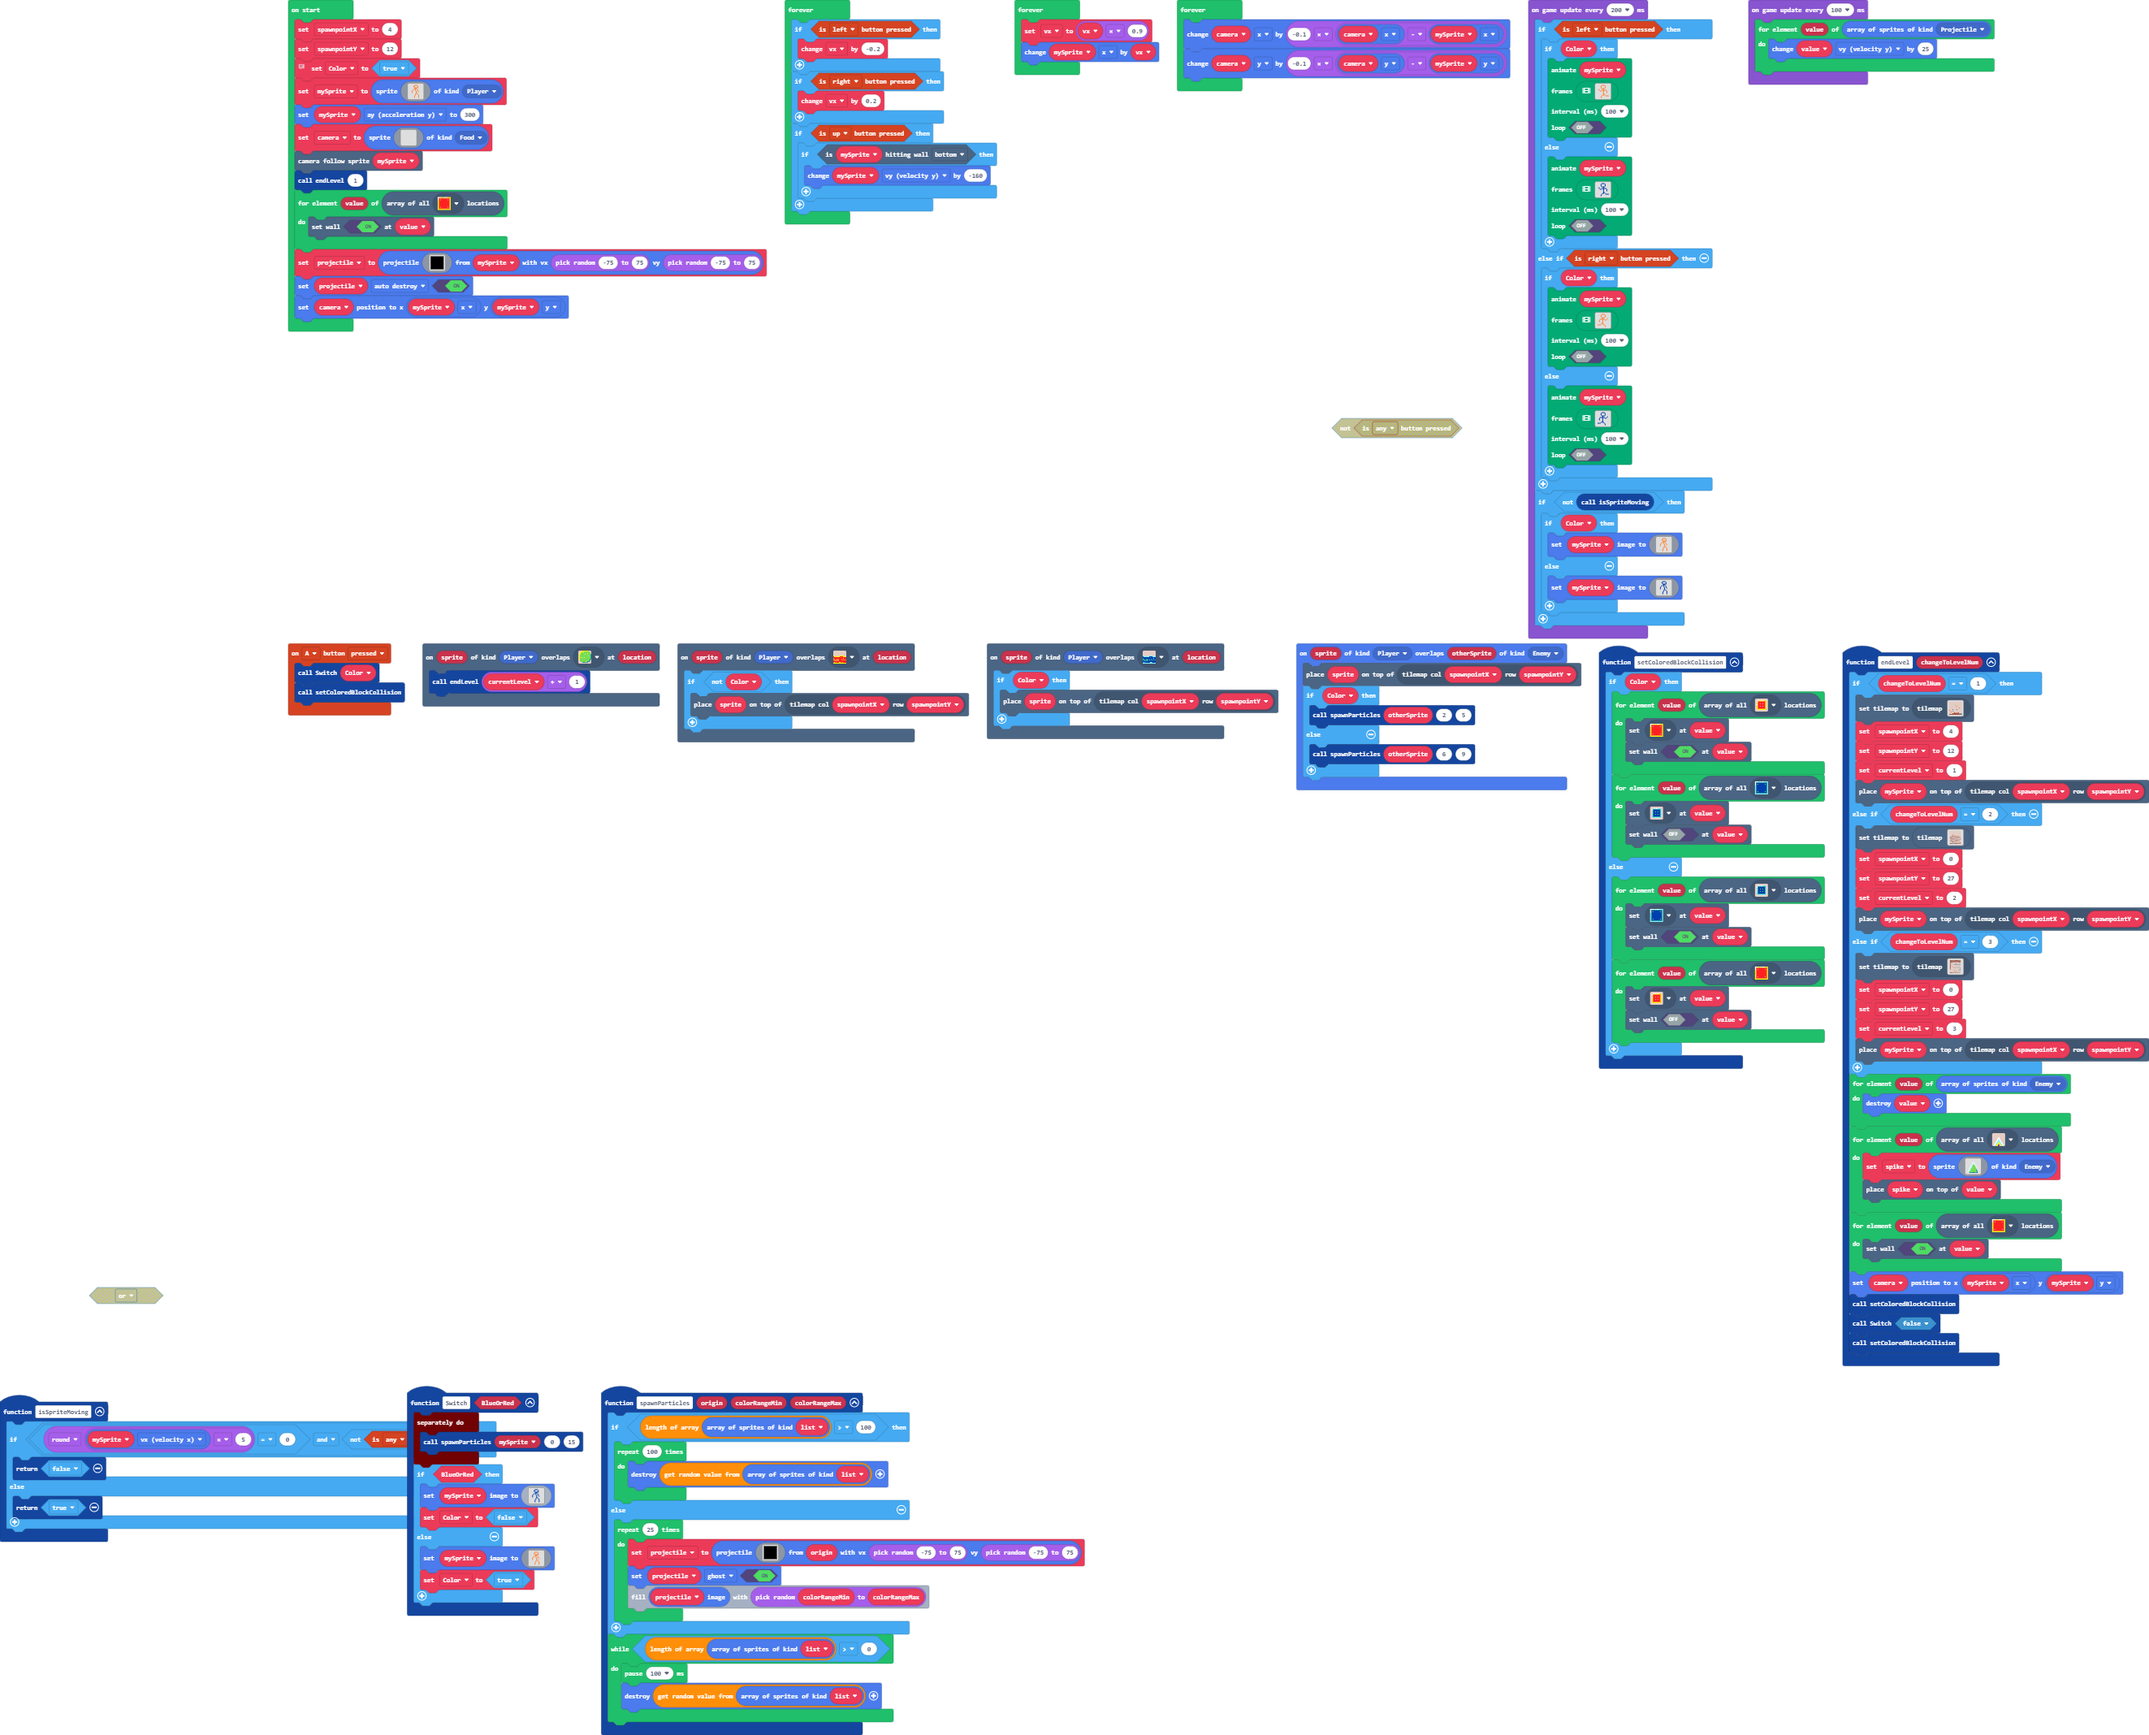
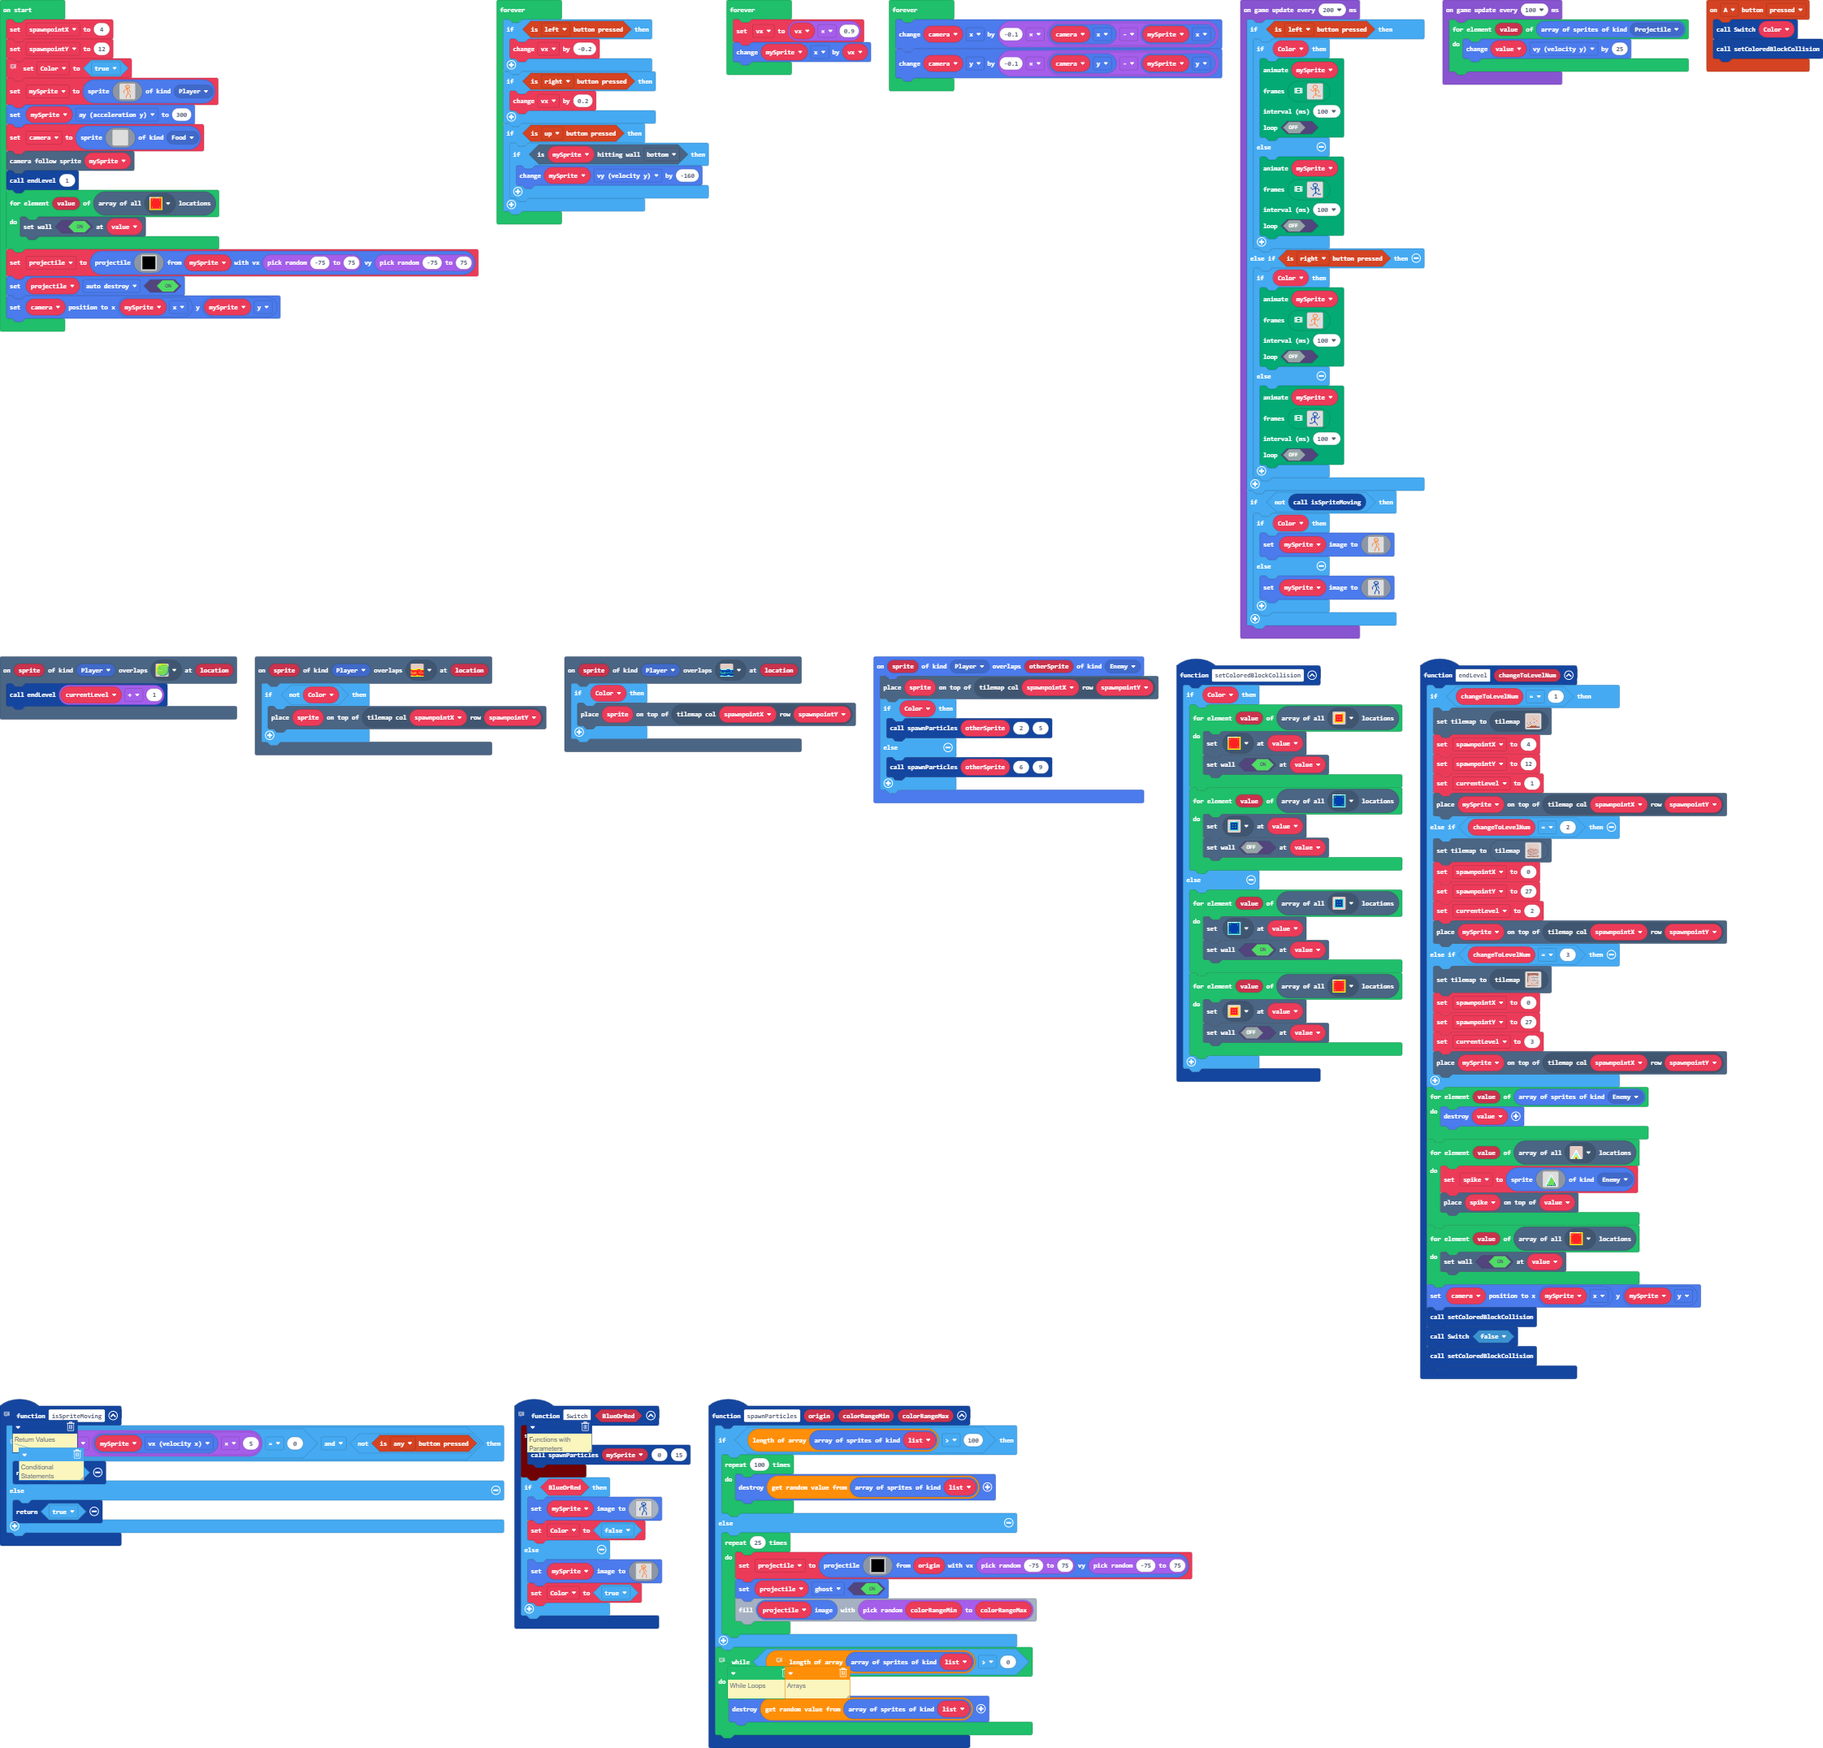
Update main.blocks, main.ts

Changed region(s): [[0.0, 0.0, 1.0, 0.8034], [0.0, 0.8034, 0.6551, 1.0], [0.0312, 0.7416, 0.0936, 0.7725]]

diff --git a/main.ts b/main.ts
@@ -1,3 +1,4 @@
+// Functions with Parameters
 function Switch (BlueOrRed: boolean) {
     timer.background(function () {
         spawnParticles(mySprite, 0, 15)
@@ -44,7 +45,9 @@ function Switch (BlueOrRed: boolean) {
         Color = true
     }
 }
+// Return Values
 function isSpriteMoving () {
+    // Conditional Statements
     if (Math.round(mySprite.vx * 5) == 0 && !(controller.anyButton.isPressed())) {
         return false
     } else {
@@ -156,6 +159,8 @@ function spawnParticles (origin: Sprite, colorRangeMin: number, colorRangeMax: n
             projectile.image.fill(randint(colorRangeMin, colorRangeMax))
         }
     }
+    // While Loops
+    // Arrays
     while (sprites.allOfKind(list).length > 0) {
         pause(100)
         sprites.destroy(sprites.allOfKind(list)._pickRandom())
